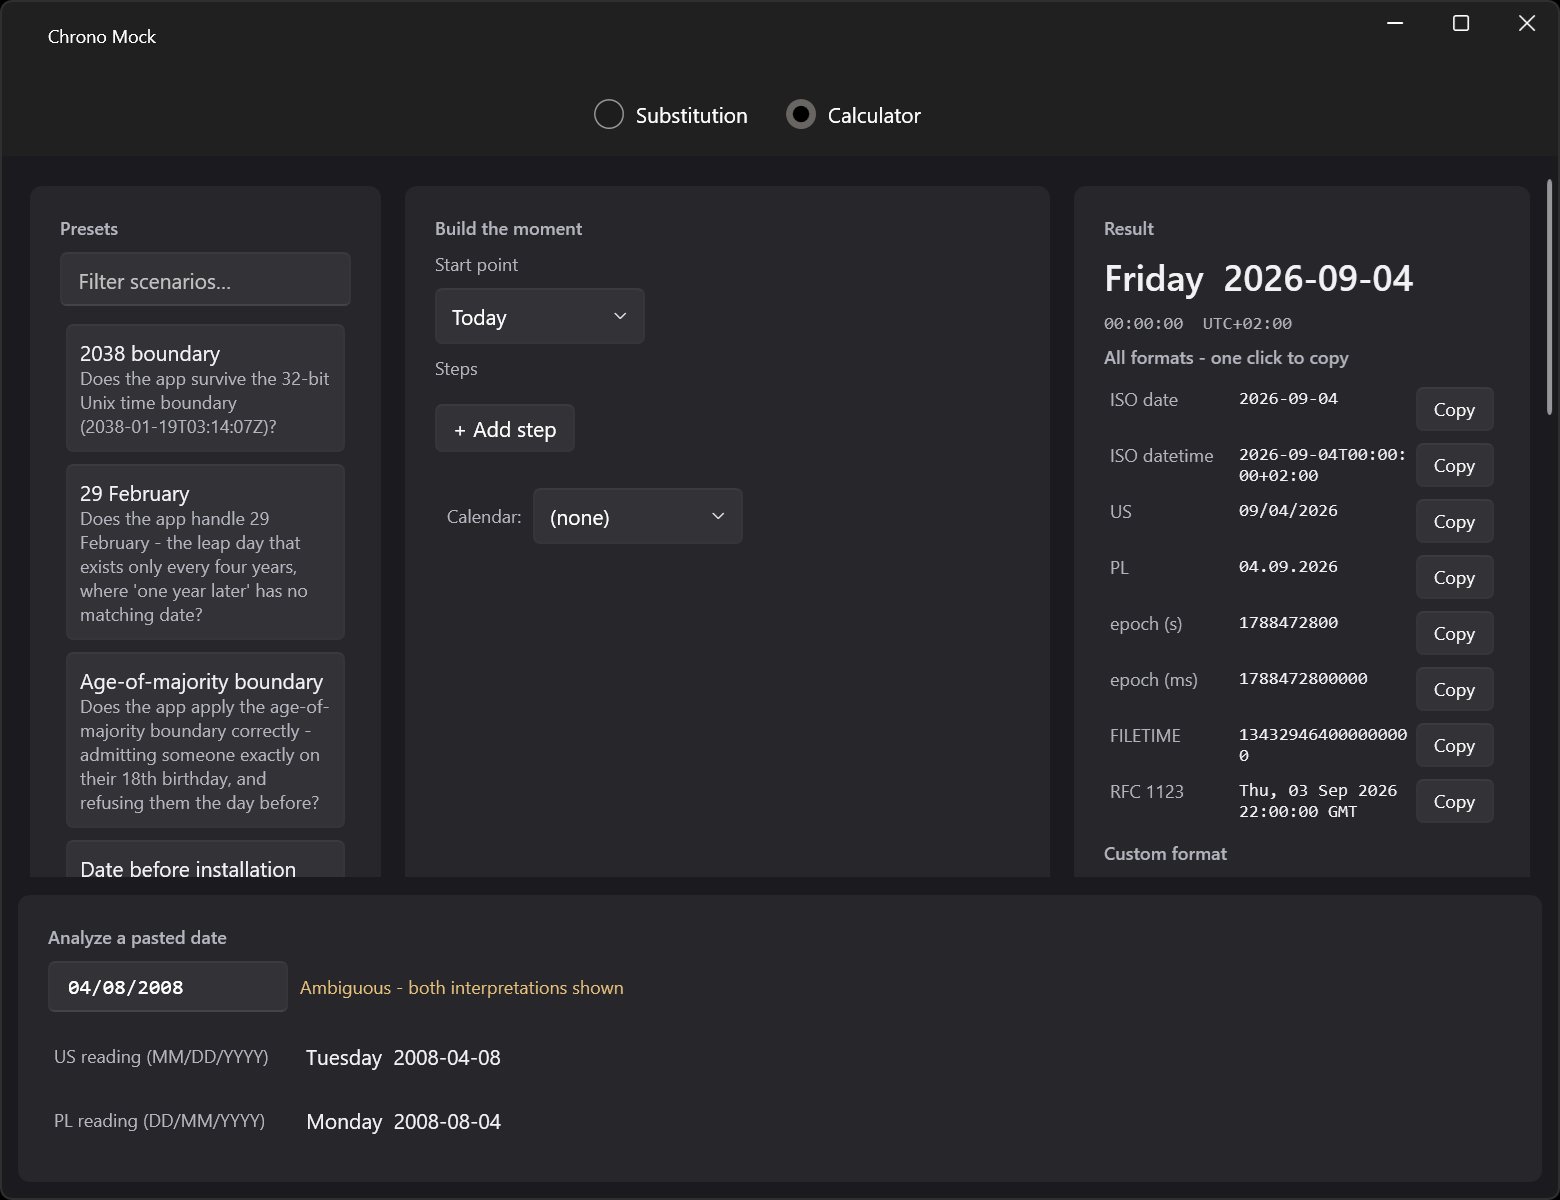
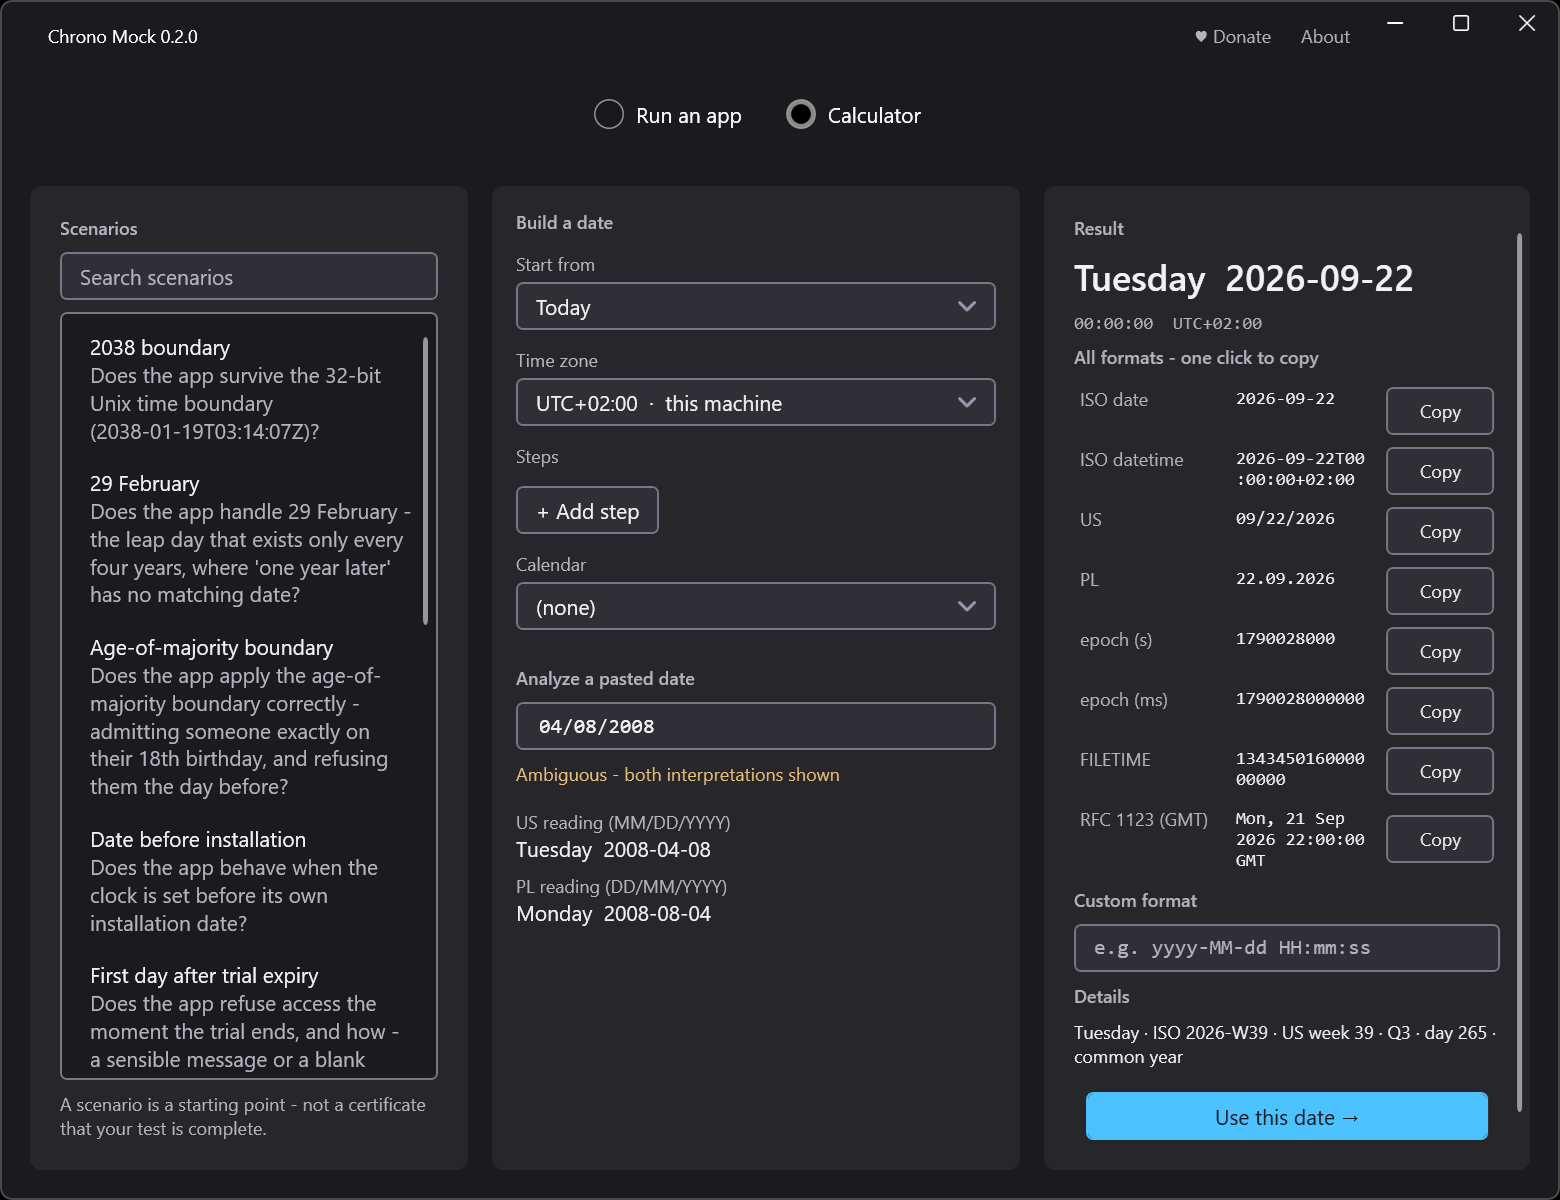
docs: the pictures show the window that exists today
The screenshots in the README and on the site were taken on 2026-09-04, before the
window was rebuilt into three phases, so each of them showed a program nobody can
open any more - one panel carrying everything at once, a wall of scenario chips, an
audit written in the mechanism's words.

Their alt text described that layout literally, down to a count of covered channels
and eight scenario buttons, which is the worse half of the problem: a stale picture
misleads the reader who can see it, and stale alt text misleads the reader who
cannot, with no way to notice the difference.

The four assets are replaced with the current window and every alt text and caption
that described the old one is rewritten to say what is in the frame now. Where the
new frame shows less than the old sentence claimed, the sentence gives up the claim
rather than the picture - the scenarios page says the ready-made dates sit behind a
heading, because in this shot that section is folded.

The recording gains the better demonstration: the application under test records its
own start in 2038 and runs for minutes of its own time while the clock in the room
moves seconds. It is a different size from the old one, so the width and height on
both language versions of that page move with it. The declared box and the file agree
again, which is what keeps the page from jumping while it loads.

Gates 12/12 on this tree, including the site build at 27 pages in two languages. The
[…]

diff --git a/site/pages/speed-up-time/en.html b/site/pages/speed-up-time/en.html
@@ -49,11 +49,12 @@
 <span class="p">chrono</span> run "C:\apps\test.exe" --mode frozen</pre>
 
     <figure class="shot filled">
-      <img src="/assets/chrono-in-action.gif" width="2598" height="1197" loading="lazy"
-           alt="A recording of a session driving another Windows application. The left window is Chrono Mock with the application's clock on 2028-06-03 and the real clock on 2026-09-04, the speed changing from frozen to x10 mid-session. The right window is the application under test, whose own log records the session as having started on 2028-06-03.">
+      <img src="/assets/chrono-in-action.gif" width="2644" height="1206" loading="lazy"
+           alt="A recording of a session driving another Windows application. The left window is Chrono Mock with the application's clock on 2038-01-19 climbing at sixty times real speed while the real clock beside it moves a few seconds. The right window is the application under test, whose own session record shows it started on 2038-01-19 and has been running for minutes against barely half a minute in the room.">
       <figcaption>A real session, driving a real application. Note the right-hand window: the
-        program under test wrote <strong>2028-06-03</strong> into its own session log. The
-        speed is changed while it runs, without restarting anything.</figcaption>
+        program under test recorded its own start as <strong>19 January 2038</strong>, and its
+        session has lasted minutes while the clock in the room moved seconds. The speed is
+        changed while it runs, without restarting anything.</figcaption>
     </figure>
   </section>
 

diff --git a/site/pages/speed-up-time/pl.html b/site/pages/speed-up-time/pl.html
@@ -45,11 +45,12 @@
 <span class="p">chrono</span> run "C:\apps\test.exe" --mode frozen</pre>
 
     <figure class="shot filled">
-      <img src="/assets/chrono-in-action.gif" width="2598" height="1197" loading="lazy"
-           alt="Nagranie sesji sterującej inną aplikacją Windows. Lewe okno to Chrono Mock z zegarem aplikacji na 2028-06-03 i prawdziwym na 2026-09-04, prędkość zmienia się z zamrożonej na x10 w trakcie sesji. Prawe okno to testowana aplikacja, której własny dziennik zapisał start sesji na 2028-06-03.">
+      <img src="/assets/chrono-in-action.gif" width="2644" height="1206" loading="lazy"
+           alt="Nagranie sesji sterującej inną aplikacją Windows. Lewe okno to Chrono Mock z zegarem aplikacji na 2038-01-19, który biegnie sześćdziesiąt razy szybciej, podczas gdy prawdziwy zegar obok przesuwa się o kilka sekund. Prawe okno to testowana aplikacja, której własny zapis sesji pokazuje start 2038-01-19 i czas trwania liczony w minutach, przy niecałym pół minucie w pokoju.">
       <figcaption>Prawdziwa sesja, prawdziwa aplikacja. Zwróć uwagę na prawe okno: testowany
-        program zapisał <strong>2028-06-03</strong> we własnym dzienniku sesji. Prędkość
-        zmienia się w trakcie, bez restartowania czegokolwiek.</figcaption>
+        program zapisał własny start na <strong>19 stycznia 2038</strong>, a jego sesja trwa
+        minuty, podczas gdy zegar w pokoju przesunął się o sekundy. Prędkość zmienia się
+        w trakcie, bez restartowania czegokolwiek.</figcaption>
     </figure>
   </section>
 

diff --git a/site/pages/date-test-scenarios/en.html b/site/pages/date-test-scenarios/en.html
@@ -122,9 +122,9 @@
 
     <figure class="shot filled">
       <img src="/assets/setup-panel.png" width="1560" height="1200" loading="lazy"
-           alt="The setup half of the Chrono Mock substitution panel: a target row, eight scenario buttons including 2038 boundary, 29 February and Year rollover, then the date field, the session zone, the speed selector and the Start button.">
-      <figcaption>Eight scenarios are one click each. The three that take a parameter are named
-        underneath rather than hidden.</figcaption>
+           alt="The Chrono Mock setup screen: the application row, then Date and time holding 2038-01-19 03:14:07 with a note that this is the 32-bit time boundary, the session time zone on UTC and a start counted from now. Below them the Scenarios section is folded with a count of eight ready-made dates, and the footer reads the moment back in plain language above the Start button.">
+      <figcaption>Eight ready-made dates sit behind the Scenarios heading, one click each. Open it
+        and the three that take a parameter are named rather than hidden.</figcaption>
     </figure>
   </section>
 

diff --git a/site/pages/date-calculator/pl.html b/site/pages/date-calculator/pl.html
@@ -14,8 +14,8 @@
 
     <figure class="shot filled">
       <img src="/assets/calculator.png" width="1560" height="1200" loading="lazy"
-           alt="Kalkulator Chrono Mock. Po lewej scenariusze z opisami, na środku builder kroków, a po prawej kolumna wyniku ze wszystkimi formatami i przyciskiem kopiowania. Na dole wklejona data 04/08/2008 jest oznaczona jako niejednoznaczna, z pokazanymi obiema interpretacjami - amerykańską i polską.">
-      <figcaption>Dolny pas to kierunek odwrotny: wklejone <code>04/08/2008</code> i obie
+           alt="Kalkulator Chrono Mock. Po lewej przeszukiwalna lista scenariuszy z opisami, na środku budowanie daty, a po prawej kolumna wyniku ze wszystkimi formatami, przyciskiem kopiowania przy każdym i poleceniem użycia tej daty pod spodem. Pod budowaniem wklejona data 04/08/2008 jest oznaczona jako niejednoznaczna, z pokazanymi obiema interpretacjami - amerykańską i polską.">
+      <figcaption>Pod budowaniem daty stoi kierunek odwrotny: wklejone <code>04/08/2008</code> i obie
         interpretacje pokazane, zamiast zgadnięcia jednej.</figcaption>
     </figure>
   </section>

diff --git a/site/pages/date-calculator/en.html b/site/pages/date-calculator/en.html
@@ -17,8 +17,8 @@
 
     <figure class="shot filled">
       <img src="/assets/calculator.png" width="1560" height="1200" loading="lazy"
-           alt="The Chrono Mock calculator. Scenarios with their explanations run down the left, the step builder is in the middle, and the result column on the right lists every format with a copy button. At the bottom, a pasted 04/08/2008 is reported as ambiguous with both the American and Polish readings shown.">
-      <figcaption>The bottom strip is the reverse direction: <code>04/08/2008</code> pasted in,
+           alt="The Chrono Mock calculator. A searchable scenario list with its explanations runs down the left, the date builder is in the middle, and the result column on the right lists every format with a copy button against each one and Use this date below them. Under the builder, a pasted 04/08/2008 is reported as ambiguous with both the American and the Polish reading shown.">
+      <figcaption>Under the builder is the reverse direction: <code>04/08/2008</code> pasted in,
         and both readings shown rather than one guessed.</figcaption>
     </figure>
   </section>

diff --git a/site/pages/date-test-scenarios/pl.html b/site/pages/date-test-scenarios/pl.html
@@ -117,9 +117,9 @@
 
     <figure class="shot filled">
       <img src="/assets/setup-panel.png" width="1560" height="1200" loading="lazy"
-           alt="Górna połowa panelu podmiany Chrono Mock: wiersz celu, osiem przycisków scenariuszy, w tym granica 2038, 29 lutego i przełom roku, dalej pole daty, strefa sesji, wybór prędkości i przycisk Start.">
-      <figcaption>Osiem scenariuszy to jedno kliknięcie każdy. Trzy, które biorą parametr, są
-        wymienione pod spodem, a nie ukryte.</figcaption>
+           alt="Ekran konfiguracji Chrono Mock: wiersz aplikacji, dalej data i godzina ustawione na 2038-01-19 03:14:07 z notą, że to granica 32-bitowego czasu, strefa sesji na UTC i start liczony od teraz. Niżej złożona sekcja scenariuszy z liczbą ośmiu gotowych dat, a na stopce moment odczytany słowami nad przyciskiem Start.">
+      <figcaption>Osiem gotowych dat stoi pod nagłówkiem scenariuszy, jedno kliknięcie każda. Po
+        rozwinięciu trzy, które biorą parametr, są wymienione, a nie ukryte.</figcaption>
     </figure>
   </section>
 

diff --git a/site/pages/home/en.html b/site/pages/home/en.html
@@ -62,7 +62,7 @@
 
     <figure class="shot filled">
       <img src="/assets/session-panel.png" width="1560" height="1200" loading="lazy"
-           alt="The Chrono Mock session panel. The application's clock reads 2038-01-19 03:24:27, the real clock reads 2026-09-04 17:57:30, a green tick says Works, and below it a list of 26 covered time channels with a call count against each.">
+           alt="The Chrono Mock session panel. The application's clock reads 2038-01-19 03:14:14 and the real clock beside it reads 2026-09-22 15:50:30, each with its own elapsed time. Below them the speeds run from x1 to x1440 with a Freeze, then the relative jumps and a jump to a typed date, and on the footer a green tick says Works next to a red Stop session.">
       <figcaption>A running session. The application is in 2038, the machine is not, and the
         verdict says the substitution reached it.</figcaption>
     </figure>

diff --git a/site/pages/home/pl.html b/site/pages/home/pl.html
@@ -61,7 +61,7 @@
 
     <figure class="shot filled">
       <img src="/assets/session-panel.png" width="1560" height="1200" loading="lazy"
-           alt="Panel sesji Chrono Mock. Zegar aplikacji pokazuje 2038-01-19 03:24:27, prawdziwy zegar 2026-09-04 17:57:30, zielony znacznik mówi Works, a pod spodem widać listę 26 objętych kanałów czasu z liczbą wywołań przy każdym.">
+           alt="Panel sesji Chrono Mock. Zegar aplikacji pokazuje 2038-01-19 03:14:14, a obok prawdziwy zegar 2026-09-22 15:50:30, każdy z własnym czasem od startu. Niżej tempa od x1 do x1440 z zamrożeniem, potem skoki względne i skok do wpisanej daty, a na stopce zielony znacznik Works obok czerwonego zatrzymania sesji.">
       <figcaption>Sesja w biegu. Aplikacja jest w 2038 roku, komputer nie, a werdykt mówi, że
         podmiana do niej dotarła.</figcaption>
     </figure>

diff --git a/README.md b/README.md
@@ -43,10 +43,11 @@ it exists.
 - **A window and a command line** - the same engine behind both, exit codes for CI.
 - **Portable** - no installer, no administrator rights, runs from a USB stick.
 
-![Chrono Mock running another Windows application at a fake date. The left window shows the application's clock on 2028-06-03 against the real clock on 2026-09-04, with the speed changed from frozen to x10 while it runs. The right window is the program under test, whose own session log records 2028-06-03.](site/assets/chrono-in-action.gif)
+![Chrono Mock running another Windows application at a fake date. The left window is Chrono Mock: the application's clock reads 19 January 2038 and climbs at sixty times real speed while the real clock beside it moves a few seconds. The right window is the application under test, whose own session record shows it started on 19 January 2038 and has been running for minutes while barely half a minute has passed in the room.](site/assets/chrono-in-action.gif)
 
-*A real session. The window on the right is the program under test - and it wrote **2028-06-03** into
-its own session log, which is the whole point.*
+*A real session. The window on the right is the program under test - and it recorded its own start as
+**19 January 2038**, then ran for minutes of its own time while the clock in the room moved seconds.
+That is the whole point.*
 
 ![Clicking the Star button at the top of the Chrono Mock repository page: the counter goes from Star 0 to Starred 1.](assets/sta-chono.gif)
 
@@ -119,7 +120,7 @@ command-line arguments or a particular working folder, they are under *Arguments
 Once it starts, the panel shows the application's clock and the real clock side by side, the
 verdict, and which time channels the application is actually reading.
 
-![The Chrono Mock session panel: the application's clock reading 2038-01-19, the real clock reading 2026-09-04, a green Works verdict, and a list of 26 covered time channels each with a call count.](site/assets/session-panel.png)
+![The Chrono Mock session panel: the application's clock reading 19 January 2038 at 03:14:14 beside the real clock reading 22 September 2026 at 15:50:30, each with its own elapsed time, then the speeds from ×1 to ×1440 with a Freeze, the relative jumps and a jump to a typed date, and on the footer a green Works verdict beside a red Stop session.](site/assets/session-panel.png)
 
 **From the command line:**
 
@@ -249,7 +250,7 @@ speaks in QA terms rather than arithmetic:
 
 Any calculated date goes straight into a time-shift session with one click.
 
-![The Chrono Mock calculator: scenarios with explanations on the left, the step builder in the middle, and the result column listing every format with a copy button. At the bottom a pasted 04/08/2008 is reported as ambiguous, with both the American and Polish readings shown.](site/assets/calculator.png)
+![The Chrono Mock calculator: a searchable scenario list with its explanations on the left, the date builder in the middle where a pasted 04/08/2008 is reported as ambiguous with both the American and the Polish reading shown, and on the right the result in every format with a copy button against each one and Use this date below them.](site/assets/calculator.png)
 
 ---
 
